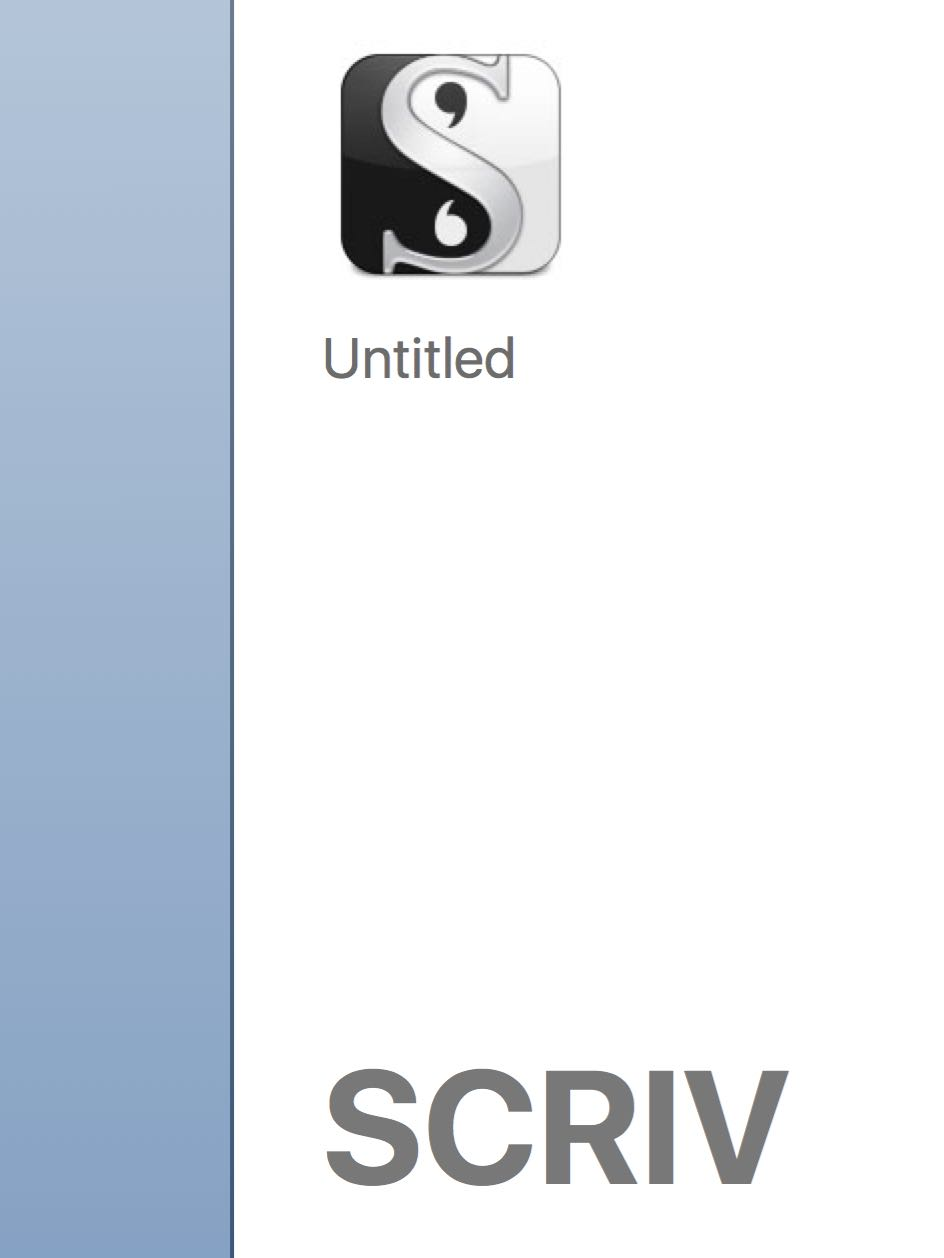
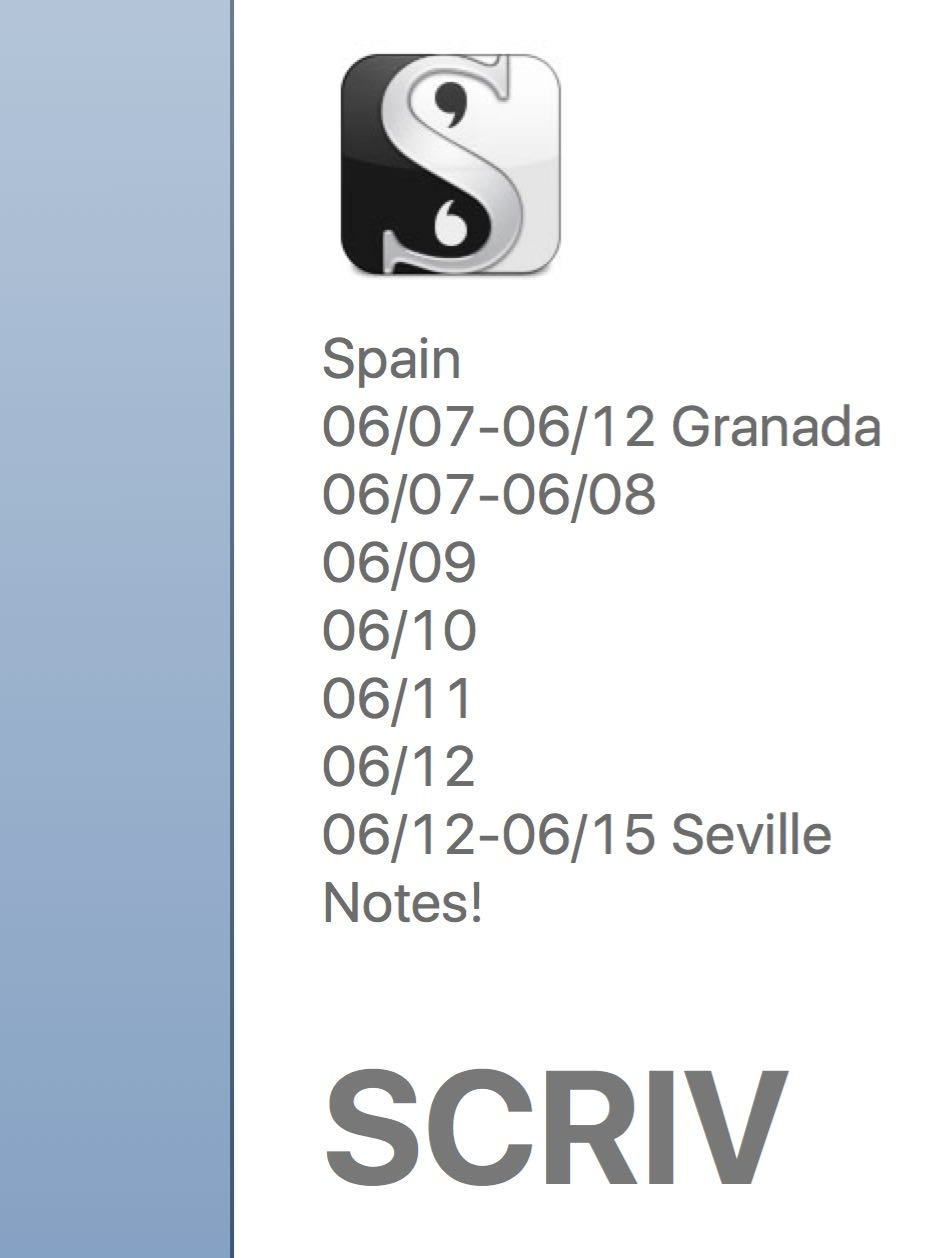
Added a note summarizing everything so I can remember

Changed region(s): [[0.3379, 0.248, 0.9523, 0.744]]

diff --git a/Team BM Travels.scriv/QuickLook/Preview.html b/Team BM Travels.scriv/QuickLook/Preview.html
@@ -33,8 +33,53 @@
 <hr/>
 <ul>
 <li>
-<p class="binderItem"><strong>Untitled</strong></p>
+<p class="binderItem"><strong>Spain</strong></p>
 </li>
+<hr/>
+<ul>
+<li>
+<p class="binderItem"><strong>06/07-06/12 Granada</strong></p>
+</li>
+<hr/>
+<ul>
+<li>
+<p class="binderItem"><strong>06/07-06/08</strong><br/> Mara and I successfully packed our bags and got in the car, ready to start our Iberian adventure. We hadn’t done much by way of planning site visits and touristy adventures, assuming our dedication to exploring and Mara’s fading memory of her time in Spain would lead us along the right path.<br/>
+With France so close in our rearview mirror, I intended to apply some of the lessons I’d learned on that trip to this one. I packed some extras I thought would come in handy—including some ziploc bags (purc...</p>
+</li>
+<li>
+<p class="binderItem"><strong>06/09</strong></p>
+</li>
+<li>
+<p class="binderItem"><strong>06/10</strong></p>
+</li>
+<li>
+<p class="binderItem"><strong>06/11</strong></p>
+</li>
+<li>
+<p class="binderItem"><strong>06/12</strong></p>
+</li>
+</ul>
+<hr/>
+<li>
+<p class="binderItem"><strong>06/12-06/15 Seville</strong></p>
+</li>
+<li>
+<p class="binderItem"><strong>Notes!</strong><br/>06/08<br/>
+<br/>
+Got to apartment<br/>
+Met Chris<br/>
+He went over map and drew all over it<br/>
+He left and we changed<br/>
+We went to the Plaza Nueva<br/>
+<br/>
+We walked out to the Cathedral. We wandered through the plazas and Mara reminisced. <br/>
+They were setting up a movie at the Cathedral<br/>
+We went to another area where Mara used to live<br/>
+We got hungry so we sat at an outdoor place—no mister<br/>
+Guitar was playing<br/>
+We ate: ago, onion, tomato with oil; mesoarab” thing that was a pastry with meat, raisins, etc.;  beans and egg; sangria and ...</p>
+</li>
+</ul>
 </ul>
 <hr/>
 <li>
